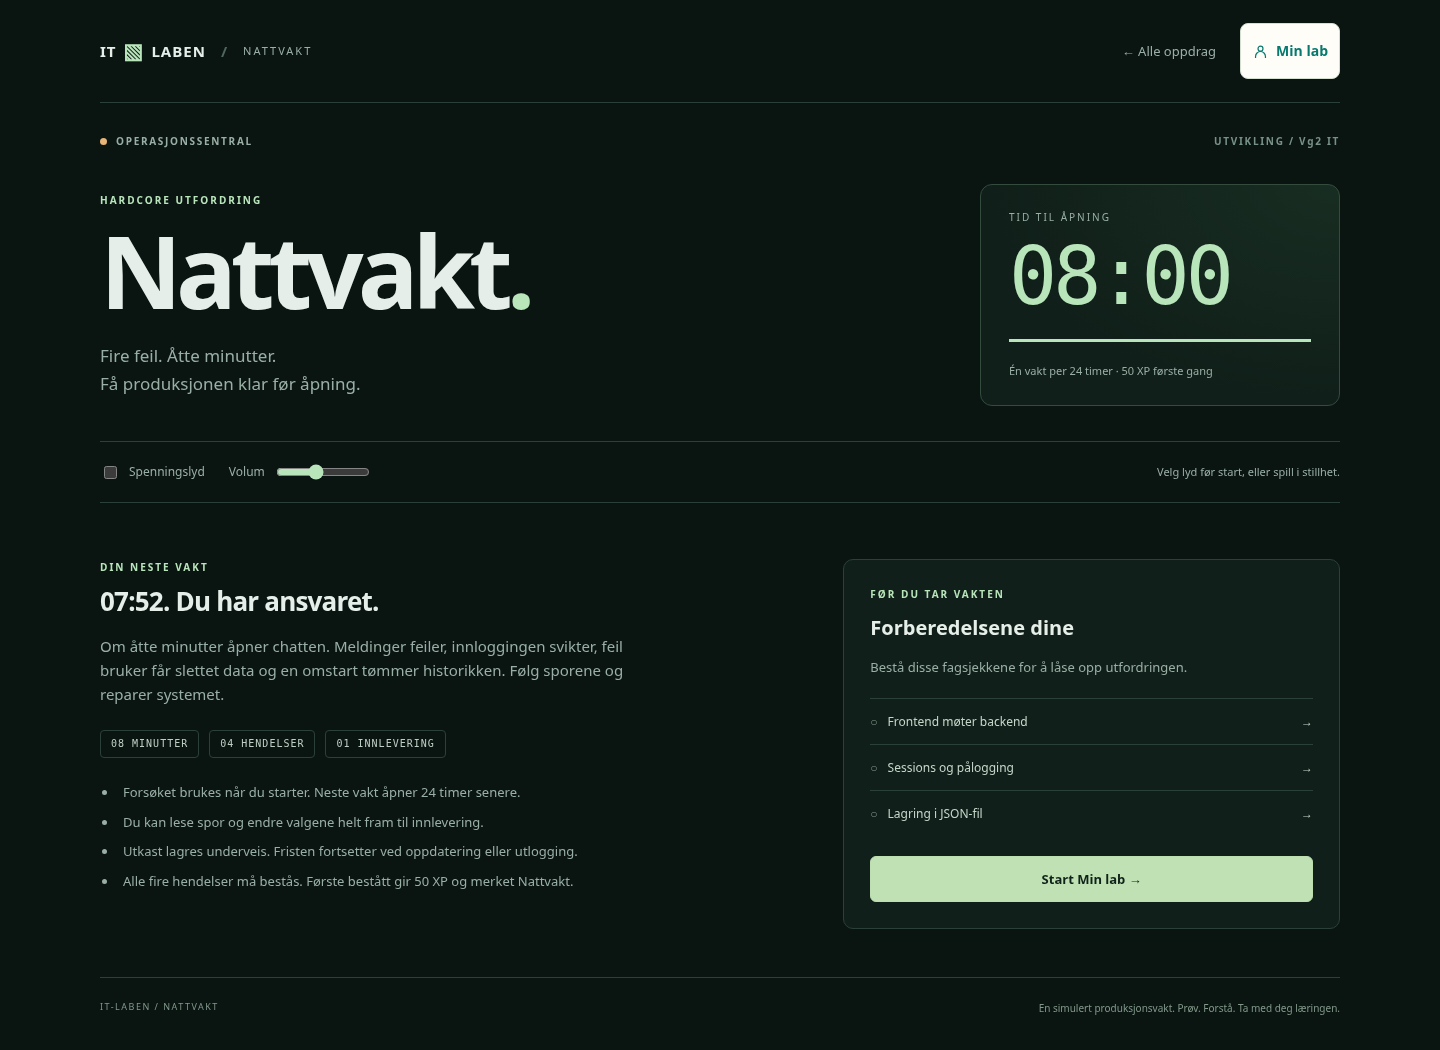
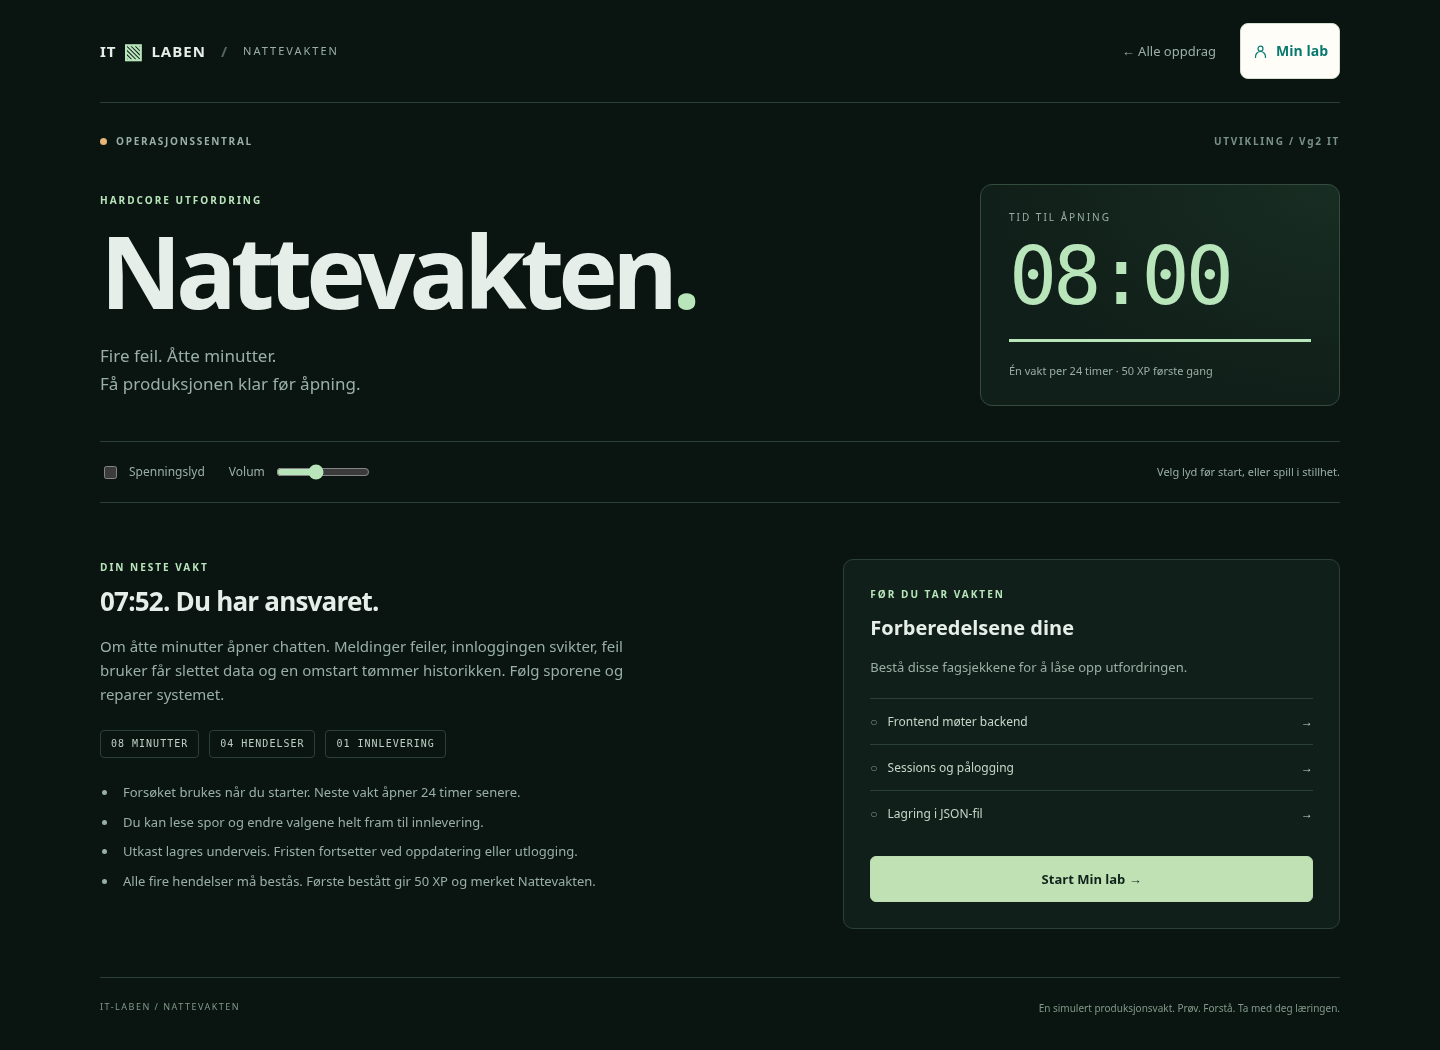
Endre visningsnavnet til Nattevakten

Changed region(s): [[0.2188, 0.2133, 0.5, 0.3048], [0.375, 0.8229, 0.4062, 0.8533], [0.1875, 0.0305, 0.2188, 0.061]]

diff --git a/src/lib/components/Nightwatch.svelte b/src/lib/components/Nightwatch.svelte
@@ -16,7 +16,7 @@
 
 	const definition = (() => {
 		const match = timedChallenges.find((item) => item.id === 'nattvakt');
-		if (!match) throw new Error('Nattvakt mangler i aktivitetsregisteret.');
+		if (!match) throw new Error('Nattevakten mangler i aktivitetsregisteret.');
 		return match;
 	})();
 	/** @type {import('#lib/timedChallenges.js').ShiftState|null} */
@@ -336,7 +336,7 @@
 >
 	<header class="site-header">
 		<a class="brand" href="/"
-			>IT<span>▧</span>LABEN<span class="separator">/</span><span class="subbrand">NATTVAKT</span
+			>IT<span>▧</span>LABEN<span class="separator">/</span><span class="subbrand">NATTEVAKTEN</span
 			></a
 		>
 		<div class="header-links"><a href="/">← Alle oppdrag</a><AccountLink /></div>
@@ -348,7 +348,7 @@
 		<div class="hero">
 			<div>
 				<p class="eyebrow">HARDCORE UTFORDRING</p>
-				<h1>Nattvakt<span>.</span></h1>
+				<h1>Nattevakten<span>.</span></h1>
 				<p class="lead">Fire feil. Åtte minutter.<br />Få produksjonen klar før åpning.</p>
 			</div>
 			<div class="clock-panel" class:live={!!active}>
@@ -652,7 +652,7 @@
 						<li>Forsøket brukes når du starter. Neste vakt åpner 24 timer senere.</li>
 						<li>Du kan lese spor og endre valgene helt fram til innlevering.</li>
 						<li>Utkast lagres underveis. Fristen fortsetter ved oppdatering eller utlogging.</li>
-						<li>Alle fire hendelser må bestås. Første bestått gir 50 XP og merket Nattvakt.</li>
+						<li>Alle fire hendelser må bestås. Første bestått gir 50 XP og merket Nattevakten.</li>
 					</ul>
 					{#if info?.bestMs !== null && info?.bestMs !== undefined}<p class="best">
 							DIN REKORD <strong>{shiftClock(info.bestMs)}</strong><span
@@ -695,7 +695,7 @@
 			</section>
 		{/if}
 		<footer class="mission-footer">
-			<span>IT-LABEN / NATTVAKT</span><span
+			<span>IT-LABEN / NATTEVAKTEN</span><span
 				>En simulert produksjonsvakt. Prøv. Forstå. Ta med deg læringen.</span
 			>
 		</footer>
@@ -810,7 +810,7 @@
 		margin: 0 0 10px;
 	}
 	h1 {
-		font-size: clamp(3.5rem, 7vw, 6.5rem);
+		font-size: clamp(2.5rem, 7vw, 6.5rem);
 		letter-spacing: -6px;
 		line-height: 1.05;
 		font-weight: 650;
@@ -1643,8 +1643,8 @@
 			grid-template-columns: minmax(0, 1fr);
 		}
 		h1 {
-			font-size: 4.2rem;
-			letter-spacing: -4px;
+			font-size: clamp(2.5rem, 12vw, 4.2rem);
+			letter-spacing: -2px;
 			margin-bottom: 12px;
 		}
 		.lead {

diff --git a/src/lib/innhold.js b/src/lib/innhold.js
@@ -102,14 +102,23 @@ export const aktiviteter = [
 	{
 		id: 'nattvakt',
 		tracking: { kind: 'timed', adapter: 'production-v1' },
-		tittel: 'Nattvakt – redd produksjonen',
+		tittel: 'Nattevakten – redd produksjonen',
 		beskrivelse: 'Åtte minutter. Fire feil. Ta vakten, følg sporene og få chatten klar før åpning.',
 		href: '/spill/nattvakt/',
 		fag: 'utvikling',
 		format: 'spill',
 		type: 'Hardcore · 8 minutter',
 		emner: ['Feilsøking', 'Tidspress', 'Produksjon'],
-		sokeord: ['hardcore', 'utfordring', 'nattvakt', 'session', 'fillagring', 'eierskap', 'backend'],
+		sokeord: [
+			'hardcore',
+			'utfordring',
+			'nattvakt',
+			'nattevakten',
+			'session',
+			'fillagring',
+			'eierskap',
+			'backend'
+		],
 		symbol: '08'
 	},
 	{

diff --git a/src/routes/min-lab/+page.svelte b/src/routes/min-lab/+page.svelte
@@ -247,7 +247,7 @@
 					<p class="small">
 						Vanlige leksjoner gir {rewardPolicy.reviewed} XP for gjennomgang, spill gir {rewardPolicy.passed}
 						XP per oppdrag. Poengene frigjøres ved bestått fagsjekk, med {rewardPolicy.checked} XP ekstra.
-						Nattvakt gir 50 XP ved første beståtte vakt. Fagsjekker og Nattvakt har ett forsøk per 24
+						Nattevakten gir 50 XP ved første beståtte vakt. Fagsjekker og Nattevakten har ett forsøk per 24
 						timer. Du kan lese og øve i de vanlige spillene så mye du vil.
 					</p>
 				</div>

diff --git a/src/routes/spill/nattvakt/+page.svelte b/src/routes/spill/nattvakt/+page.svelte
@@ -3,7 +3,7 @@
 </script>
 
 <svelte:head>
-	<title>Nattvakt – redd produksjonen | IT-laben</title>
+	<title>Nattevakten – redd produksjonen | IT-laben</title>
 	<meta
 		name="description"
 		content="Åtte minutter, fire feil og én vakt. Følg sporene, reparer koden og få produksjonen klar før åpning."

diff --git a/src/lib/progression.js b/src/lib/progression.js
@@ -108,7 +108,7 @@ export const achievementDefinitions = [
 	},
 	{
 		id: 'nattvakt-v1',
-		title: 'Nattvakt',
+		title: 'Nattevakten',
 		description: 'Gjør alle fire reparasjonene og få produksjonen klar innen åtte minutter.',
 		symbol: '08',
 		subjects: ['utvikling'],

diff --git a/src/lib/timedChallenges.js b/src/lib/timedChallenges.js
@@ -4,7 +4,7 @@ export const timedChallenges = [
 		id: 'nattvakt',
 		adapter: 'production-v1',
 		objectiveId: 'shift-v1',
-		title: 'Nattvakt',
+		title: 'Nattevakten',
 		durationMs: 8 * 60 * 1000,
 		cooldownMs: 24 * 60 * 60 * 1000,
 		points: 50,

diff --git a/docs/progresjon.md b/docs/progresjon.md
@@ -8,7 +8,7 @@ Forhåndsvisning med en testprofil: [forsiden](gamification-home.png), [Min lab]
 
 Progresjonen skiller mellom **gjennomgått** (elevens egen bekreftelse), **bestått oppdrag** (en serverkontrollert løsning) og **bestått fagsjekk**. Et bestått forsøk gjelder den konkrete oppgaven; XP og merker er ikke karakterer eller en sertifisering av elevens samlede kompetanse. Vanlige leksjoner og spill kan øves fritt. Der krever XP bestått fagsjekk; selve sjekken har ett innsendt forsøk per 24 timer per aktivitet og konto.
 
-[Nattvakt](nattvakt.md) er en egen utfordring på åtte minutter, med ett forsøk per 24 timer, fire reparasjoner, hendelsesrapport og valgfri ambience. Den bruker en felles tidsmotor som kan utvides med driftsoppdrag.
+[Nattevakten](nattvakt.md) er en egen utfordring på åtte minutter, med ett forsøk per 24 timer, fire reparasjoner, hendelsesrapport og valgfri ambience. Den bruker en felles tidsmotor som kan utvides med driftsoppdrag.
 
 ## Hvor definisjonene ligger
 
@@ -138,7 +138,7 @@ Et opptjent merke blir stående. Ved vesentlig endring i et merkekrav opprettes 
 
 ## Poeng, labkort og tilbakemelding
 
-Belønningspolicyen er samlet: 15 XP for gjennomgang, 10 for fagsjekk, 25 for bestått spill-/simulatoroppdrag og 25 i fullføringsbonus for en challenge-aktivitet. Nivåene bruker 100 XP per nivå. De 13 vanlige aktivitetene krever fagsjekk for XP. I tillegg gir Nattvakt 50 XP ved første beståtte vakt, kontrollert gjennom selve utfordringen. Til sammen gir innholdet 655 XP og labnivå 7 for en ny konto som fullfører alt. Historiske poeng fra utgåtte sjekker legges til kontoens maksimum slik at tidligere XP ikke skjuler gjenstående oppgaver.
+Belønningspolicyen er samlet: 15 XP for gjennomgang, 10 for fagsjekk, 25 for bestått spill-/simulatoroppdrag og 25 i fullføringsbonus for en challenge-aktivitet. Nivåene bruker 100 XP per nivå. De 13 vanlige aktivitetene krever fagsjekk for XP. I tillegg gir Nattevakten 50 XP ved første beståtte vakt, kontrollert gjennom selve utfordringen. Til sammen gir innholdet 655 XP og labnivå 7 for en ny konto som fullfører alt. Historiske poeng fra utgåtte sjekker legges til kontoens maksimum slik at tidligere XP ikke skjuler gjenstående oppgaver.
 
 Unike belønningsnøkler hindrer dobbeltelling ved nye forsøk og retry etter nettbrudd. Tidligere opptjente poeng beholdes selv om nye aktiviteter eller nye regler legges til. Eksisterende belønningsnøkler skal ikke endres.
 

diff --git a/docs/nattvakt.md b/docs/nattvakt.md
@@ -1,6 +1,6 @@
-# Nattvakt – redd produksjonen
+# Nattevakten – redd produksjonen
 
-Nattvakt ligger på `backend`, under `/spill/nattvakt/`. Det er en produksjonsvakt på åtte minutter med fire hendelser, ett innsendingsforsøk og en lokal elektronisk ambience som bygger seg opp mot slutten.
+Nattevakten ligger på `backend`, under `/spill/nattvakt/`. Det er en produksjonsvakt på åtte minutter med fire hendelser, ett innsendingsforsøk og en lokal elektronisk ambience som bygger seg opp mot slutten.
 
 Forhåndsvisning med eksempeldata: [briefing](nattvakt-briefing.png), [aktiv vakt](nattvakt-aktiv.png), [mobil](nattvakt-mobile.png) og [hendelsesrapport](nattvakt-rapport.png).
 
@@ -21,7 +21,7 @@ Slettingsruten kjøres gjennom de samme åtte prøvene som i Redd chatten. Til s
 
 Etter levering eller utløp vises en hendelsesrapport med resultat, forklaring, løsningsprinsipp og relevante leksjoner. Ved utløp vurderes sist lagrede serverutkast for å gi læringsfeedback; utløpt vakt gir ikke XP, selv med et korrekt utkast.
 
-Første bestått gir **50 XP og merket Nattvakt**. Dette er en serverkontrollert forståelsesoppgave og krever ingen ekstra fagsjekk. Senere beståtte vakter kan forbedre personlig rekord, men gir ikke samme XP på nytt. Tidligere opptjent progresjon og merke beholdes ved senere feil.
+Første bestått gir **50 XP og merket Nattevakten**. Dette er en serverkontrollert forståelsesoppgave og krever ingen ekstra fagsjekk. Senere beståtte vakter kan forbedre personlig rekord, men gir ikke samme XP på nytt. Tidligere opptjent progresjon og merke beholdes ved senere feil.
 
 ## Lagring og nettbrudd
 

diff --git a/docs/backend.md b/docs/backend.md
@@ -16,7 +16,7 @@ Fagspor, ni merker, fagsjekker med døgnsgrense, labkort og lydeffekter er beskr
 - Alle dagens leksjoner kan markeres som gjennomgått. De 15 XP frigjøres først ved bestått fagsjekk, som gir 10 XP ekstra. Gjennomgangen er egenrapportert.
 - De tre ordinære spillene kontrolleres på serveren med de eksisterende simuleringsmodellene. Hvert oppdrag gir 25 XP og et ferdig spill gir 25 ekstra, frigjort etter at alle oppdragene og spillets fagsjekk er bestått. Ingen fri elevkode kjøres.
 - 13 fagsjekker med to varierte spørsmål, begge riktige for å bestå. Ett innsendt forsøk per fagsjekk per 24 timer, håndhevet på serveren per konto. Oppdatering og ny pålogging nullstiller ikke grensen.
-- [Nattvakt](nattvakt.md): åtte minutter, fire reparasjoner, ett forsøk per 24 timer, serverstyrt frist, lagrede utkast, hendelsesrapport og 50 XP første gang.
+- [Nattevakten](nattvakt.md): åtte minutter, fire reparasjoner, ett forsøk per 24 timer, serverstyrt frist, lagrede utkast, hendelsesrapport og 50 XP første gang.
 - Progresjon og innsendte spillvalg gjenopprettes. Et bestått oppdrag beholdes selv om neste forsøk feiler.
 - Innsendinger som venter på nett lagres lokalt per konto, med et tak på 100. Nøkler og påloggingshemmeligheter lagres aldri i localStorage. Dersom lokal lagring er sperret, må fanen holdes åpen til synkronisering er ferdig.
 - Sletting av konto fjerner også økter, nøkler, poeng og progresjon fra aktiv database. Eldre sikkerhetskopier følger serverens sletterutine/retensjon.

diff --git a/README.md b/README.md
@@ -81,7 +81,7 @@ Når vi lager og videreutvikler sider, legger vi vekt på å:
 
 Branchen `backend` har en førsteversjon med brukerprofiler, nøkkelfil, varig progresjon, XP og achievements. Se [backendveiledningen](docs/backend.md) for lokal kjøring, API, sikkerhetsmodell, HTTPS-oppsett og backup. Undervisningssimuleringene er fremdeles separate fra ekte innlogging.
 
-På `backend` finnes også personlig fremdrift på forsiden, fire fagspor, ni merker, fagsjekker med ett forsøk per døgn og et eget labkort. [Progresjonsveiledningen](docs/progresjon.md) beskriver utvidelse med nye fag, aktiviteter, kontrollregler, merker og oppgavevarianter. Vanlige leksjoner og spill krever bestått fagsjekk for XP. [Nattvakt](docs/nattvakt.md) er en egen utfordring på åtte minutter med ett forsøk per døgn, økende lydbilde og en samlet kontroll av fire reparasjoner. Lydeffekter er valgfrie og av som standard.
+På `backend` finnes også personlig fremdrift på forsiden, fire fagspor, ni merker, fagsjekker med ett forsøk per døgn og et eget labkort. [Progresjonsveiledningen](docs/progresjon.md) beskriver utvidelse med nye fag, aktiviteter, kontrollregler, merker og oppgavevarianter. Vanlige leksjoner og spill krever bestått fagsjekk for XP. [Nattevakten](docs/nattvakt.md) er en egen utfordring på åtte minutter med ett forsøk per døgn, økende lydbilde og en samlet kontroll av fire reparasjoner. Lydeffekter er valgfrie og av som standard.
 
 ## Teknisk oppsett
 
